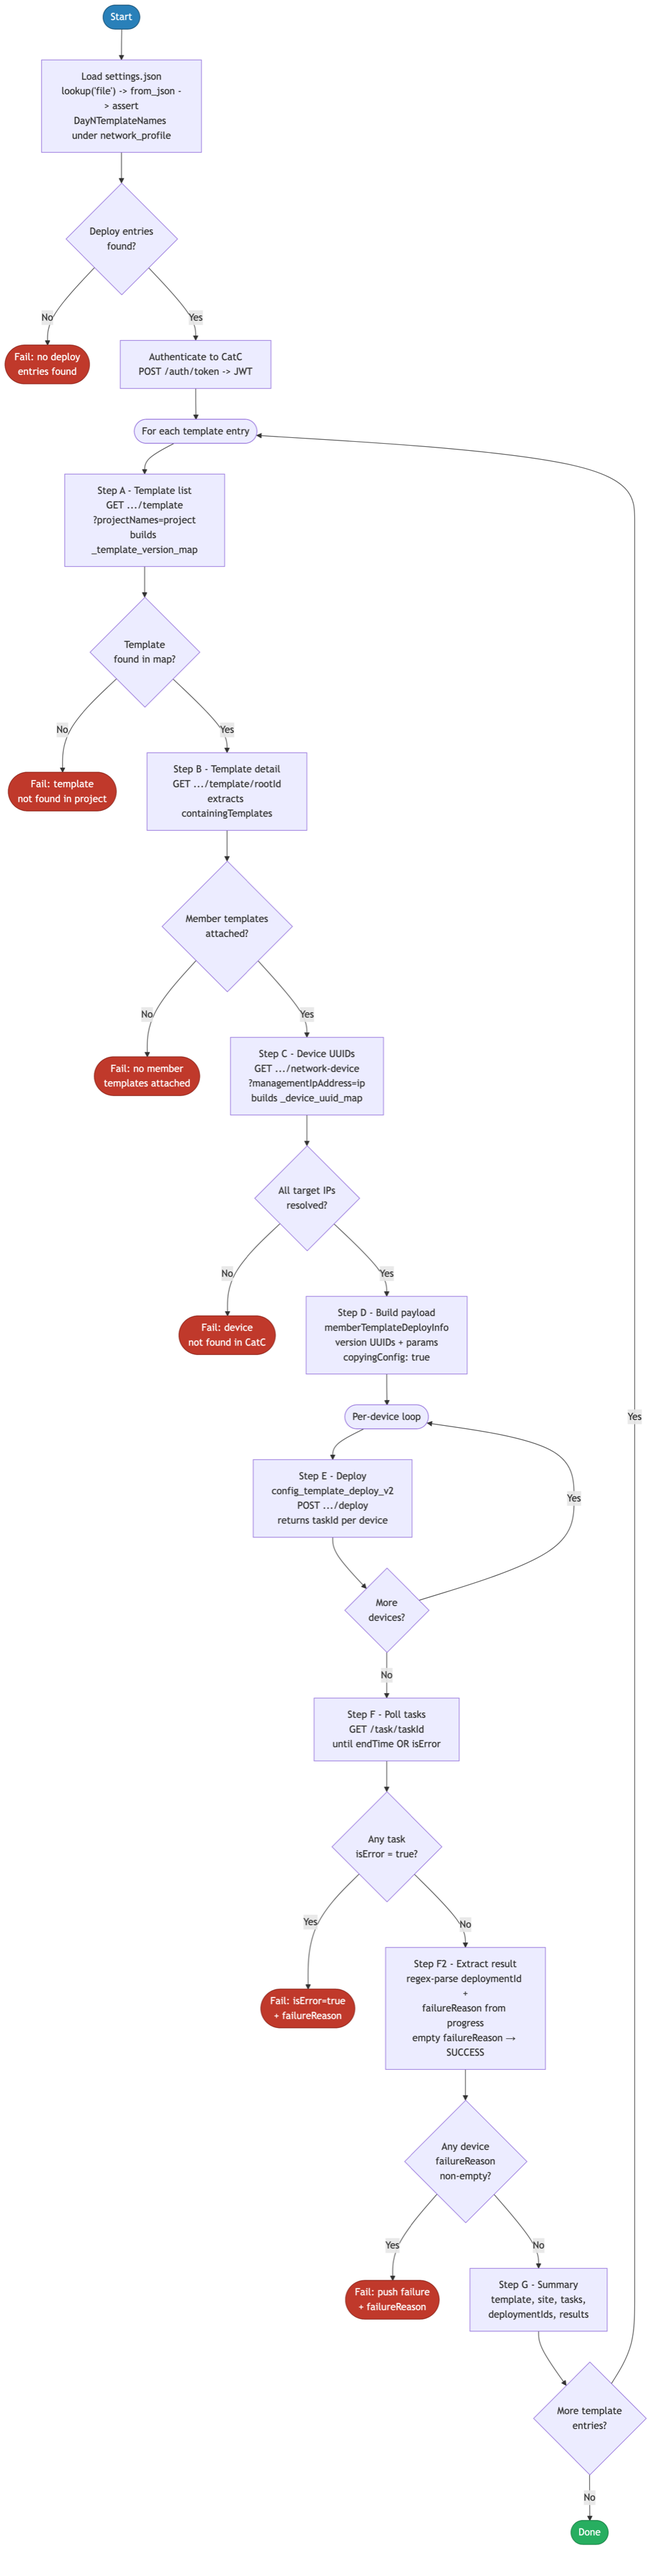
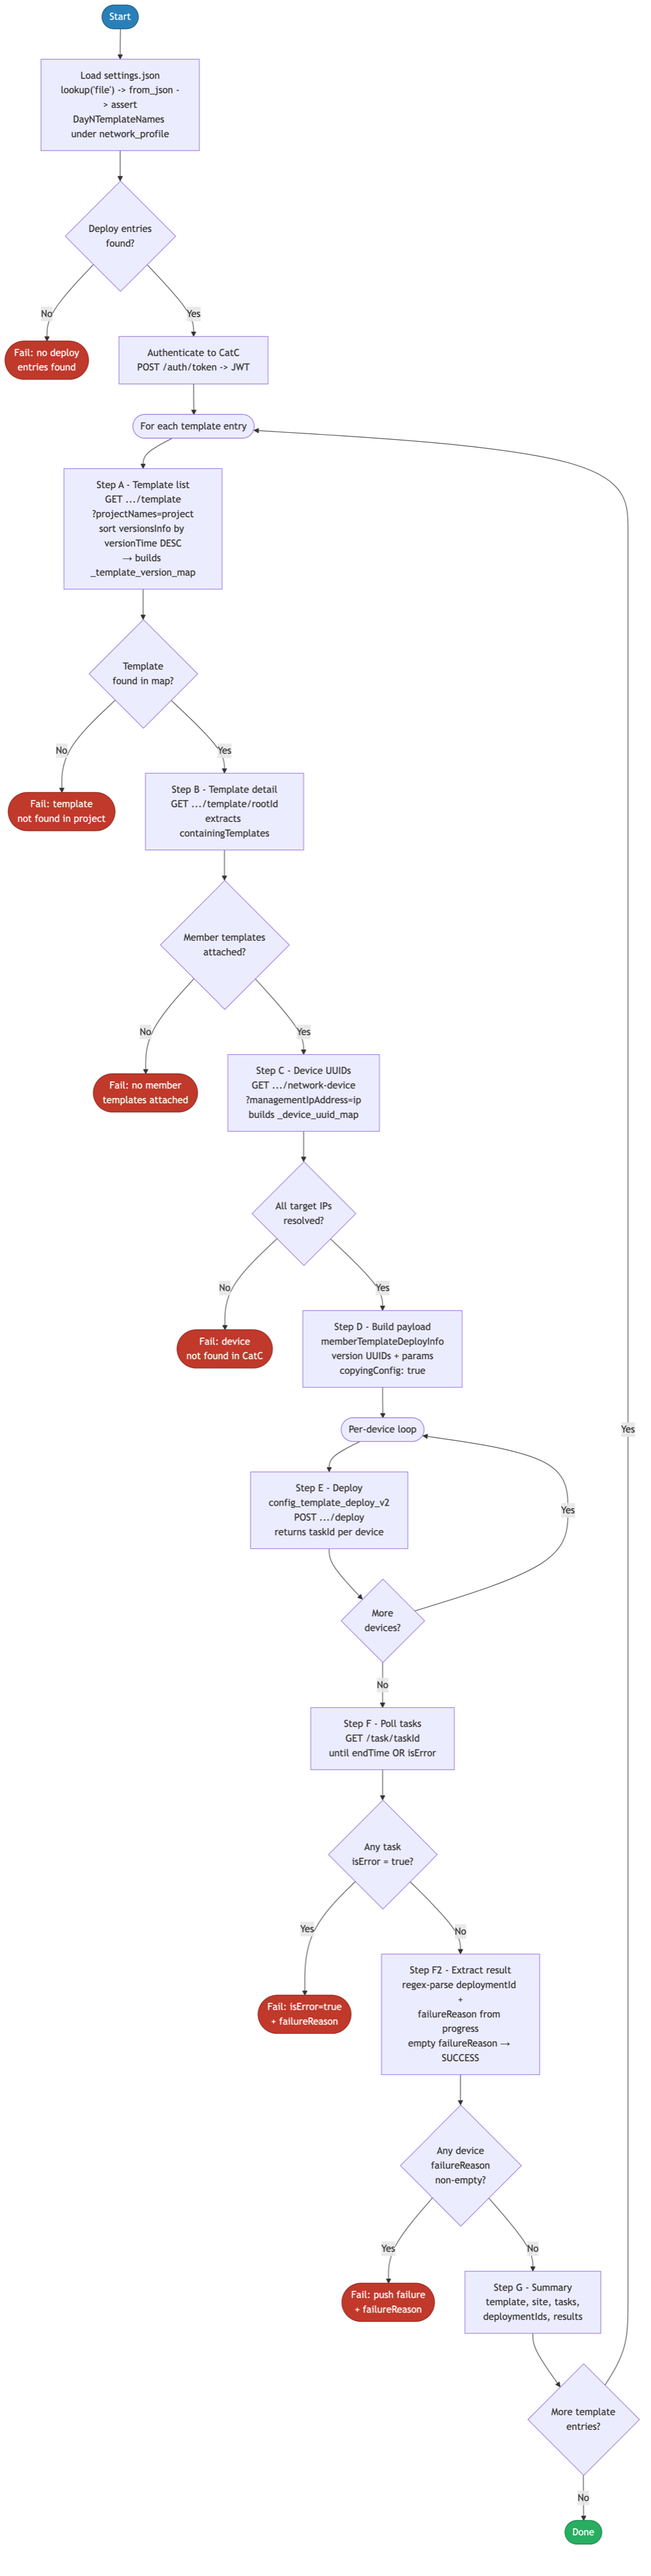
docs: update 8.0 README/diagram for versionsInfo sort fix; add suite workflow diagram
8.0 README.md:
- All references to "versionsInfo[0].id is the latest version" corrected.
  CatC returns versionsInfo in RANDOM order (confirmed by live API inspection).
  Documentation now states the correct approach: sort by versionTime DESC,
  take the entry with the highest timestamp as the latest committed version.
- Updated JSON example to show versionTime field (not version string) and
  non-chronological array ordering to match real API behaviour.
- Updated _template_version_map comment from versionsInfo[0].id to
  max(versionsInfo, key=versionTime).id.
- Updated all ID-concept tables and ASCII diagram to show max(versionTime).
- Updated Step A troubleshooting row: stale-config cause now correctly
  describes the random-order issue and sort-based fix.

8.0 DIAGRAMS/logical-flow.mmd + .png:
- Step A label updated to include "sort versionsInfo by versionTime DESC"
  so the rendered diagram accurately describes what the playbook does.
- PNG re-rendered at --scale 3, downscaled to ≤4000px longest dimension.

Support/Resources/Ansible/DIAGRAMS/ (new):
- provisioning-workflow.mmd: new suite-level flowchart showing the full
  end-to-end provisioning pipeline across all 8 playbooks, including input
  sources (settings.json, GitHub repo), intermediate CatC resources produced
  at each step, must-run-before ordering constraints, and the temporary
  feature-flex-l3out branch note on playbook 6.0.
- provisioning-workflow.png: rendered PNG (2099×4000 px).
[…]

diff --git a/Support/Resources/Ansible/8.0-Cisco-Catalyst-Center-Provision-Composite/README.md b/Support/Resources/Ansible/8.0-Cisco-Catalyst-Center-Provision-Composite/README.md
@@ -459,7 +459,9 @@ Each iteration of the main loop executes all steps in this file for one composit
 
 #### Step A: Fetch All Project Templates with Version IDs
 
-**Purpose:** Retrieve the complete flat template list for the project using the template-programmer template endpoint, which — unlike the project endpoint — includes `versionsInfo` per template. `versionsInfo[0].id` is the **latest committed version UUID**, which is required by the CatC v2 deploy API.
+**Purpose:** Retrieve the complete flat template list for the project using the template-programmer template endpoint, which — unlike the project endpoint — includes `versionsInfo` per template. The entry with the highest `versionTime` in `versionsInfo` is the **latest committed version UUID**, which is required by the CatC v2 deploy API.
+
+> **⚠ CatC returns `versionsInfo` in random order — not chronological.** The playbook sorts the array by `versionTime` (Unix milliseconds) descending and selects the highest value as the latest version. Using `versionsInfo[0]` directly would select an arbitrary — often stale — snapshot.
 
 > **Why not the project endpoint?** `GET /template-programmer/project?name=` returns a `templates[]` array with only root `templateId` values and no `versionsInfo`. The v2 deploy API requires version-level UUIDs (`templateId` = version UUID, `mainTemplateId` = root UUID). Using root UUIDs as `templateId` causes the deploy to be accepted silently but may push stale configurations.
 
@@ -475,27 +477,27 @@ GET /dna/intent/api/v1/template-programmer/template?projectNames=<project_name>
     "name":         "BGP-EVPN-BUILD.j2",
     "templateId":   "2cbdc2f3-3a44-44bc-a8df-b3d76a410c60",
     "versionsInfo": [
-      { "id": "5d4f4fa7-b6fa-4d2a-b4ff-f00d08419665", "version": "2" },
-      { "id": "a1b2c3d4-...",                          "version": "1" }
+      { "id": "a1b2c3d4-...",                          "versionTime": 1774400000000 },
+      { "id": "5d4f4fa7-b6fa-4d2a-b4ff-f00d08419665", "versionTime": 1774409236083 }
     ]
   },
   {
     "name":         "FABRIC-VRF.j2",
     "templateId":   "faa53970-0521-44c1-ab49-9a2d92609c61",
     "versionsInfo": [
-      { "id": "38d90128-e9dc-4c10-aee0-fb00c0c3e60b", "version": "3" }
+      { "id": "38d90128-e9dc-4c10-aee0-fb00c0c3e60b", "versionTime": 1774409172589 }
     ]
   }
 ]
 ```
 
-The first element of `versionsInfo` is always the **most recently committed** version. The playbook builds a lookup map from every template name to its two key UUIDs:
+`versionsInfo` is returned in **random order** by CatC. The playbook sorts it by `versionTime` descending and selects the entry with the highest timestamp as the latest committed version. The result is stored in a lookup map:
 
 ```yaml
 _template_version_map:
   "BGP-EVPN-BUILD.j2":
     rootId:    "2cbdc2f3-3a44-44bc-a8df-b3d76a410c60"   # tpl.templateId
-    versionId: "5d4f4fa7-b6fa-4d2a-b4ff-f00d08419665"   # versionsInfo[0].id
+    versionId: "5d4f4fa7-b6fa-4d2a-b4ff-f00d08419665"   # max(versionsInfo, key=versionTime).id
   "FABRIC-VRF.j2":
     rootId:    "faa53970-0521-44c1-ab49-9a2d92609c61"
     versionId: "38d90128-e9dc-4c10-aee0-fb00c0c3e60b"
@@ -509,7 +511,7 @@ If a template has no `versionsInfo` (i.e., has never been committed to CatC), `v
 | ID type | Source field | Description |
 |---------|-------------|-------------|
 | Root UUID | `templateId` | Permanent identifier assigned when the template is first created. Never changes across commits. |
-| Version UUID | `versionsInfo[0].id` | UUID of the latest committed snapshot of the template. Changes each time you commit a new version. **This is what the v2 deploy API requires as `templateId`.** |
+| Version UUID | `max(versionsInfo, key=versionTime).id` | UUID of the latest committed snapshot. `versionsInfo` is returned in random order — sort by `versionTime` descending and take the first element. Changes each time you commit a new version. **This is what the v2 deploy API requires as `templateId`.** |
 | Main template ID | Root UUID | The `mainTemplateId` field in the deploy payload. CatC uses it for internal version tracking. |
 
 #### Step B: Template Detail Fetch (containingTemplates)
@@ -870,7 +872,7 @@ The structure submitted to `POST /dna/intent/api/v2/template-programmer/template
 
 | Field | Type | Value | Notes |
 |-------|------|-------|-------|
-| `templateId` | string | Composite version UUID | From `versionsInfo[0].id` via `_template_version_map`. NOT the root UUID. |
+| `templateId` | string | Composite version UUID | From `max(versionsInfo, key=versionTime).id` via `_template_version_map`. NOT the root UUID. |
 | `mainTemplateId` | string | Composite root UUID | Permanent template ID. From `templateId` field in the template list response. |
 | `isComposite` | bool | `true` | Required for composite deploys |
 | `copyingConfig` | bool | `true` | **Critical — top level.** Tells CatC to push rendered config to the device. Without this, deploy is intent-only. |
@@ -891,17 +893,19 @@ This section explains a key concept that confused even experienced users: the di
 
 Every template in Catalyst Center is assigned a permanent **root UUID** when it is first created. This ID is visible in the Template Editor URL and in the project/template list API response as `templateId`. It never changes, even as the template is edited and committed multiple times.
 
-Every time you commit a new version of the template in CatC, a new **version UUID** is created and attached to that snapshot. The template list endpoint (`/template-programmer/template?projectNames=`) exposes these as the `versionsInfo` array. `versionsInfo[0].id` is always the **most recently committed version**.
+Every time you commit a new version of the template in CatC, a new **version UUID** is created and attached to that snapshot. The template list endpoint (`/template-programmer/template?projectNames=`) exposes these as the `versionsInfo` array.
+
+> **⚠ `versionsInfo` is returned in random order by CatC — not newest-first.** This was confirmed by live API inspection: for a template with 8 versions, the newest (max `versionTime`) was at array index [2], not [0]. The playbook sorts by `versionTime` descending and takes the first result.
 
 ```
 BGP-EVPN-BUILD.j2
 │
 ├── rootId (permanent):     2cbdc2f3-3a44-44bc-a8df-b3d76a410c60   ← mainTemplateId
 │
-└── Versions:
-    ├── version 1 UUID:  a1b2c3d4-e5f6-7890-abcd-ef1234567890
-    └── version 2 UUID:  5d4f4fa7-b6fa-4d2a-b4ff-f00d08419665   ← templateId (latest)
-                                                                    (versionsInfo[0].id)
+└── versionsInfo (random order — must sort by versionTime):
+    ├── versionTime 1774400000000:  a1b2c3d4-e5f6-7890-abcd-ef1234567890
+    └── versionTime 1774409236083:  5d4f4fa7-b6fa-4d2a-b4ff-f00d08419665   ← templateId (latest)
+                                                                               max(versionTime)
 ```
 
 ### Why Both Are Required
@@ -910,7 +914,7 @@ The v2 composite deploy API requires:
 
 | Payload field | UUID type | Source |
 |---------------|-----------|--------|
-| `templateId` | **Version UUID** (latest committed) | `versionsInfo[0].id` from `GET /template-programmer/template?projectNames=` |
+| `templateId` | **Version UUID** (latest committed) | `max(versionsInfo, key=versionTime).id` from `GET /template-programmer/template?projectNames=` |
 | `mainTemplateId` | **Root UUID** (permanent) | `templateId` field from same response |
 
 Sending the root UUID as `templateId` is accepted without error but may result in CatC deploying an older or unexpected version of the template configuration.
@@ -1175,7 +1179,7 @@ This playbook sits at the end of the automation chain. All upstream steps must c
 | `assert` fails: no deploy entries found | No `DayNTemplateNames` entries with `DeployTemplate: true` in `settings.json` | Verify at least one entry in `settings.json` has `DeployTemplate: true` and a non-null `TemplateName` and `Project` under `network_profile.DayNTemplateNames`. |
 | `401 Unauthorized` from REST calls | Vault credentials incorrect or expired | Verify `dnac_username` / `dnac_password` in `vault.yml`. Re-encrypt if recently changed. |
 | `SSL: CERTIFICATE_VERIFY_FAILED` | TLS verification enabled against self-signed cert | Set `dnac_verify: false` in inventory for lab environments, or add the CatC CA cert to the system trust store for production. |
-| Deploy succeeds but stale config is pushed to device | `templateId` is the root UUID instead of the version UUID | The template list endpoint (`?projectNames=`) must be used — not the project endpoint — to obtain `versionsInfo[0].id`. The playbook already uses this endpoint; this symptom appears if the endpoint was reverted. |
+| Deploy succeeds but stale config is pushed to device | A non-latest `versionsInfo` entry (or the root UUID) was used as `templateId` | The playbook sorts `versionsInfo` by `versionTime` descending to select the latest version. This symptom can also appear if the template list endpoint was accidentally reverted to the project endpoint (which returns no `versionsInfo`). Ensure `deploy_entry.yml` uses `sort(attribute='versionTime', reverse=true) \| first` on `versionsInfo`. |
 | Deploy succeeds but no config pushed to device | `copyingConfig: true` missing from payload | `copyingConfig` must be present at **both** the top level and inside each `memberTemplateDeploymentInfo` entry. The `cisco.dnac.configuration_template_deploy_v2` module silently drops this field — this is why the playbook uses `ansible.builtin.uri` for the deploy step instead. |
 | CatC Audit Log: "Error while deploying provisioning workflow" | Device unreachable during deploy | CatC wraps template pushes in a provisioning workflow. This audit log error means CatC could not reach the device to push config. Verify the device shows as Reachable in CatC Inventory (`Provision → Inventory`) and retry. |
 | `NCDP10000: Configuration failed on device … due to unreachability` | Target device not reachable from CatC at deploy time | The device was in CatC inventory but could not be reached via NETCONF/SSH. Check that the device is fully booted, management interface is up, and CatC has a route to the management IP. |
